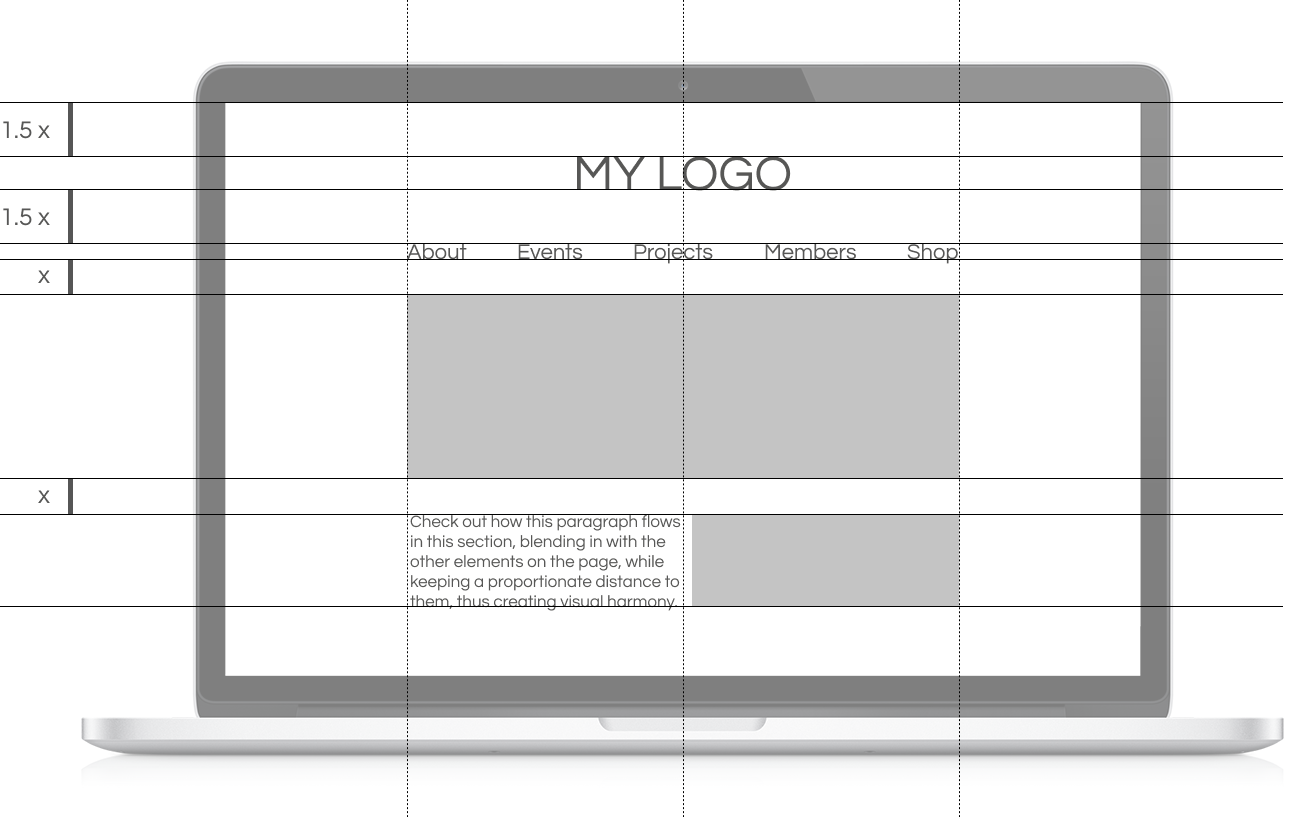
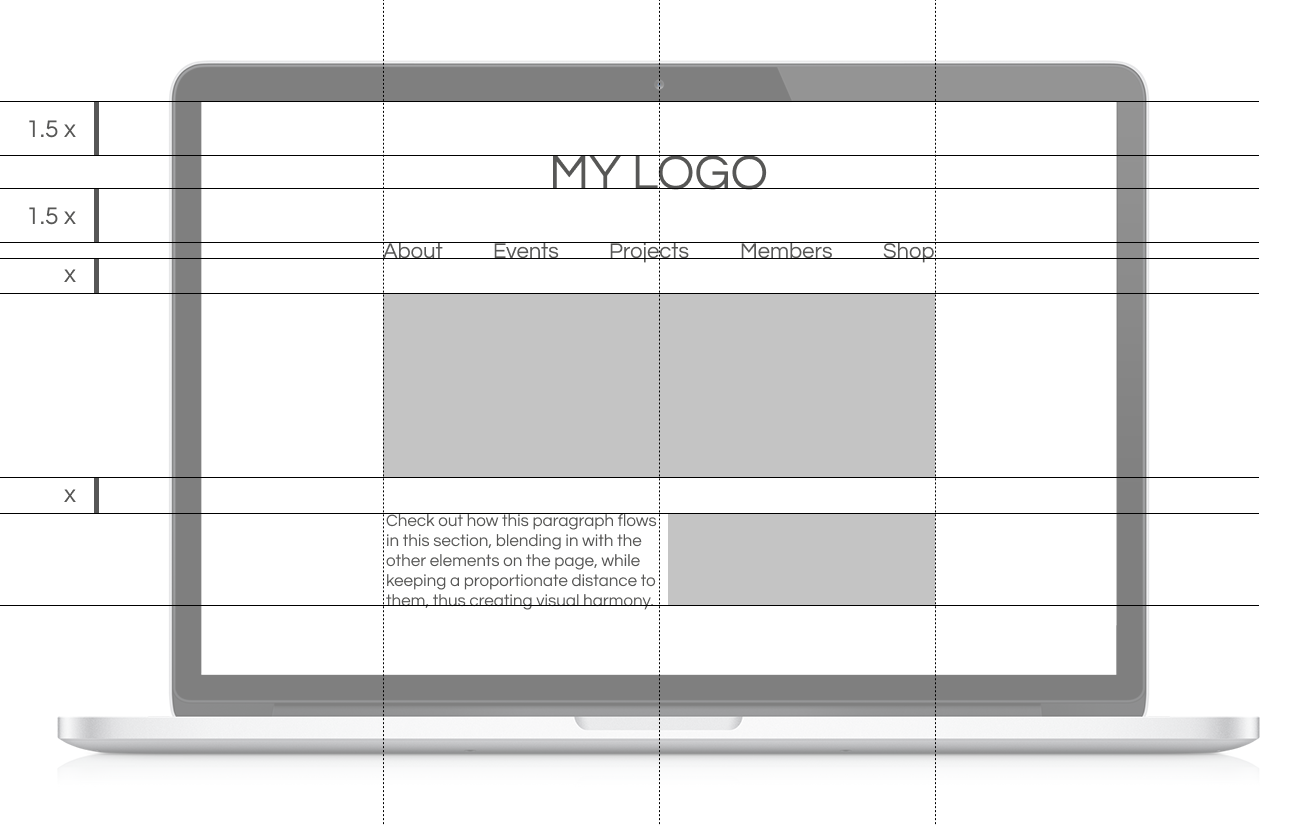
tiny adjustments

diff --git a/styles.css b/styles.css
@@ -432,11 +432,10 @@ body::-webkit-scrollbar {
         grid-column: 1/2;
         width: 60%;
         padding: 50px 0;
-        /* margin-top: 5%; */
         
         #grid {
             width: 100%;
-            transform: translateX(-3%);
+            transform: translateX(-2%);
         }
     
         .method-text-last {
@@ -612,6 +611,17 @@ body::-webkit-scrollbar {
                 .projects-description-text {
                     font-size: 19px;
                 }
+            }
+        }
+
+        #ultrawide {
+            > img {
+                transition: 1s cubic-bezier(0.34, 0.17, 0.22, 0.98);
+            }
+        }
+        #mobile-image {
+            > img {
+                transition: 1s cubic-bezier(0.34, 0.17, 0.22, 0.98);
             }
         }
 

diff --git a/app.js b/app.js
@@ -59,7 +59,7 @@ const checkbox = document.getElementById('gekko');
     const scrollPosition1 = viewportHeight * 0.6;
     const scrollPosition2 = element2.offsetTop + (element2.offsetHeight / 2);
     const scrollPosition3 = element4.offsetTop + (element4.offsetHeight / 2);
-    const scrollPosition4 = element5.offsetTop - (viewportHeight / 3);
+    const scrollPosition4 = element5.offsetTop - (viewportHeight / 2);
 
       if (scrollY <= scrollPosition1) {
         rect1.style.transform = "translate(0)";
